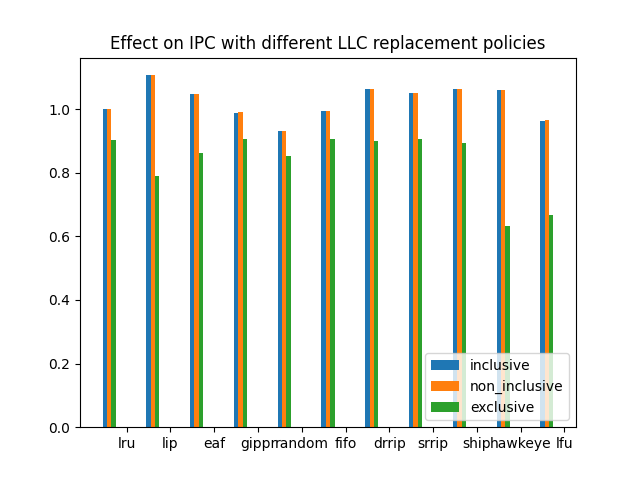
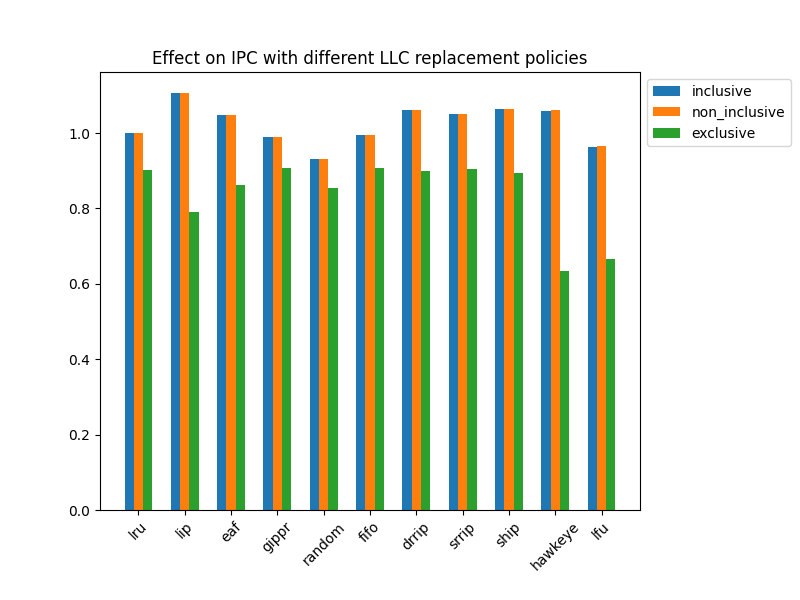
changed run_sim.py, updated pics

diff --git a/run_sim.py b/run_sim.py
@@ -55,7 +55,7 @@ for k, policy in enumerate(cache_policy):
             data[2][i][j][k] = mpki
         
 ind = np.arange(len(llc_repl))
-width = 0.1
+width = 0.2
 
 # print(ind)
 # print(data[0])
@@ -63,34 +63,43 @@ width = 0.1
 for i in range(len(TRACES)):
     data[0][i] = data[0][i]/data[0][i][0][0]
     data[1][i] = data[1][i]/data[1][i][0][0]
-
+    
+    plt.figure(figsize=(8, 6))
     for k in range(len(cache_policy)):
         plt.bar(ind + width*k, data[0][i, :, k], width, label=cache_policy[k])
 
-    plt.xticks(ind+ width*(len(llc_repl) - 1) /2 , llc_repl)
-    plt.legend(loc = 'lower right')
+    plt.xticks(rotation=45)
+    plt.xticks(ind - 0.8 + width*(len(llc_repl) - 1) /2 , llc_repl)
+    plt.legend(loc='upper left', bbox_to_anchor=(1, 1))
     plt.title("Effect on IPC with different LLC replacement policies")
-    # plt.show()
+    plt.subplots_adjust(bottom=0.15, right=0.8)
+    #plt.show()
     plt.savefig(f"{result_dir}/pics/{TRACES[i][:-3]}_ipc.png")
     plt.close()
 
+    plt.figure(figsize=(8, 6))
     for k in range(len(cache_policy)):
         plt.bar(ind + width*k, data[1][i, :, k], width, label=cache_policy[k])
 
-    plt.xticks(ind + width*(len(llc_repl) - 1) /2 , llc_repl)
-    plt.legend(loc = 'lower right')
+    plt.xticks(rotation=45)
+    plt.xticks(ind - 0.8 + width*(len(llc_repl) - 1) /2 , llc_repl)
+    plt.legend(loc='upper left', bbox_to_anchor=(1, 1))
     plt.title("Effect on hit rate with different LLC replacement policies")
+    plt.subplots_adjust(bottom=0.15, right=0.8)
     # plt.show()
     plt.savefig(f"{result_dir}/pics/{TRACES[i][:-3]}_hit.png")
     plt.close()
 
-
+    plt.figure(figsize=(8, 6))
     for k in range(len(cache_policy)):
         plt.bar(ind + width*k, data[2][i, :, k], width, label=cache_policy[k])
 
-    plt.xticks(ind + width*(len(llc_repl) - 1) /2 , llc_repl)
-    plt.legend(loc = 'lower right')
+    plt.xticks(rotation=45)
+    plt.xticks(ind - 0.8 + width*(len(llc_repl) - 1) /2 , llc_repl)
+
+    plt.legend(loc='upper left', bbox_to_anchor=(1, 1))
     plt.title("Effect on MPKI with different LLC replacement policies")
+    plt.subplots_adjust(bottom=0.15, right=0.8)
     # plt.show()
     plt.savefig(f"{result_dir}/pics/{TRACES[i][:-3]}_mpki.png")
     plt.close()
